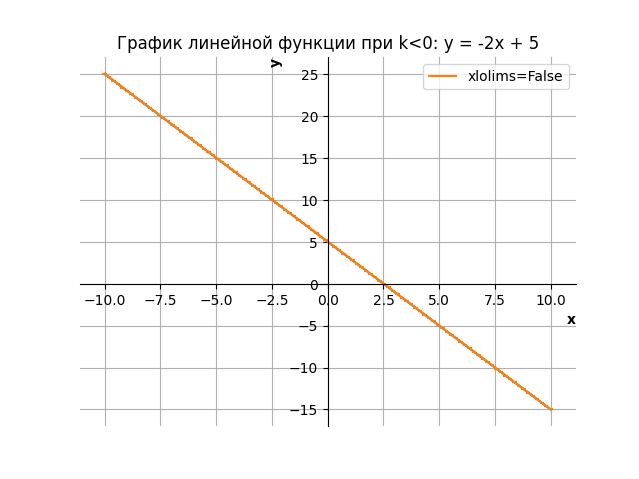
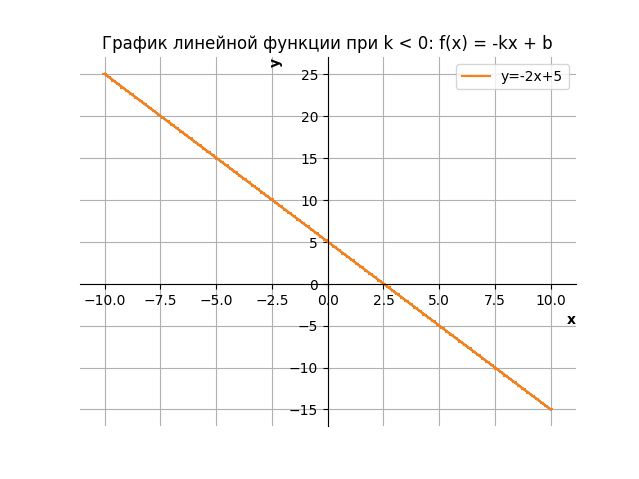
Fmt

Changed region(s): [[0.1487, 0.0585, 0.8623, 0.1169], [0.6541, 0.1461, 0.892, 0.1754]]

diff --git a/py/chart.py b/py/chart.py
@@ -15,7 +15,7 @@ y = k * x + b
 plt.plot(x, y)
  
 # Добавляем заголовок к графику
-plt.title("График линейной функции: y = b")
+plt.title("График линейной функции при k = 0: f(x) = b")
 
 # Включаем сетку для лучшей читаемости
 plt.grid(True)
@@ -31,7 +31,7 @@ ax.spines['top'].set_color('none')
 plt.xlabel("x", loc="right", fontweight="bold")
 plt.ylabel("y", loc="top", fontweight="bold")
 
-plt.errorbar(x, y, xerr=0.1, xlolims=False, label='xlolims=False')
+plt.errorbar(x, y, xerr=0.1, xlolims=False, label='y=-2x+5')
 plt.legend()
 # Показываем график
 plt.show()

diff --git a/src/theories_of_electrical_circuits/lessons/51.md b/src/theories_of_electrical_circuits/lessons/51.md
@@ -1,16 +1,35 @@
-# Урок 51. Линейное уравнение. Линейная функция. Уравнение первого порядка. Полином первого порядка.
+# Урок 51. Линейное уравнение. Линейная функция.
 
 В **теоретических основах электротехники (ТОЭ)** используются математические методы, включая **линейные уравнения**, **линейные функции**, **уравнения первого порядка** и **полиномы первого порядка**. Давай разберём, как они применяются в электротехнике.  
 
 ---
 
 ### 1. Линейное уравнение 
-Это уравнение вида:  
- 
-$a x + b = 0$
-  
-Где $ a $ и $ b $ — коэффициенты, а $ x $ — неизвестная величина.  
 
+$A\cdot x + B\cdot y = C$
+  
+- Первый вид уравнений:
+
+    Где $ A $ и $ B $ — постоянные коэффициенты и $A\ne 0$ и $B\ne 0$. 
+
+    $B\cdot y=-A\cdot x+C$
+
+    $y=-\frac{A}{B}\cdot x+\frac{C}{B}$ - это как раз уравнения вида $f(x)=kx + b$ при $k \ne 0$
+
+- Второй вид уравнений:
+    
+    Если $A=0$ и $B\ne 0$ это постоянная функция (горизонтальная линия)
+
+    $y=\frac{С}{B}$ - это как раз уравнения вида $f(x)=b$  
+
+
+- Третий вид уравнений:
+
+    При $A\ne 0$ и $B=0$ это не функция, так как на выходе произвольные данные
+
+    $x=\frac{С}{A}$ - вертикальная прямая, x постоянная величина, а у произвольный
+
+ 
 **В ТОЭ:**  
 - Такие уравнения описывают **линейные электрические цепи**, где параметры элементов (R, L, C) **не зависят** от напряжения или тока. (Резистор обладая 5 Ом сопротивлением при изменении тока или напряжение не изменяет свою характеристику, он по прежнему с 5 Ом, так же для индуктивности и емкости) 
 - Используются в методах **узловых потенциалов** и **методе контурных токов**.  
@@ -27,20 +46,17 @@ $f(x)=kx + b$
 Где:
 - $k$ — коэффициент наклона (передаточная функция)
 - $ b $ — сдвиг
-- $x, y$ — оси Декартовой плоскости
+- $x, y$ — оси Декартовой плоскости. Имеют значение тока или напряжения
 
 Строят функцию на графике для ряда точек, чтобы наглядно увидеть поведение функции. 
 Входные данные $x$ (независимая переменная), а выходные данные $y$ (зависимая переменная, так как зависит от входных данных) 
-
-
-
 
 Пример: 
 
 Пусть $k = 2$ (отвечает за угол наклона прямой и симметрию), $b = 5$ (отвечает за смещение по y оси), а $x$ изменяется от -10 до 10. <br>
 Тогда функция будет иметь вид: $y = 2x + 5$
 
-Запись вида $f(x)=kx + b$ удобна когда мы подставляем реальные значения:
+Запись вида $f(x)=kx + b$ это полином первого порядка, удобна когда мы подставляем реальные значения:
 - $f(1)=2\cdot 1 + 5=7\ т.е.\ y=7$
 - $f(8)=2\cdot 8 + 5=21\ т.е.\ y=21$
 
@@ -103,62 +119,5 @@ plt.show()
 
 ---
 
-### 3. Уравнение первого порядка 
-
-Линейное уравнение первого порядка (так как x в первой степени):
-
-$y = kx + b$
-
-
-Дифференциальное уравнение вида:  
- 
-$\frac{dy}{dx} + p(x)y = q(x)$
-  
-
-**В ТОЭ:**  
-- Описывает **зарядку и разрядку конденсаторов** ($ RC $-цепи).  
-- Описывает **переходные процессы в RL-цепях**:  
- 
-  $L \frac{di}{dt} + Ri = U$
- 
-
----
-
-### 4. Полином первого порядка 
-Это выражение вида:  
- 
-$A\cdot x + B\cdot y = C$
-  
-- Первый вид уравнений:
-
-    Где $ A $ и $ B $ — постоянные коэффициенты и $A\ne 0$ и $B\ne 0$. 
-
-    $B\cdot y=-A\cdot x+C$
-
-    $y=-\frac{A}{B}\cdot x+\frac{C}{B}$ - это как раз уравнения вида $f(x)=kx + b$ при $k \ne 0$
-
-- Второй вид уравнений:
-    
-    Если $A=0$ и $B\ne 0$ это постоянная функция (горизонтальная линия)
-
-    $y=\frac{С}{B}$ - это как раз уравнения вида $f(x)=b$  
-
-
-- Третий вид уравнений:
-
-    При $A\ne 0$ и $B=0$ это не функция, так как на выходе произвольные данные
-
-    $x=\frac{С}{A}$ - вертикальная прямая, x постоянная величина, а у произвольный
-
-**В ТОЭ:**  
-- Часто используется в **аппроксимации характеристик элементов**.  
-- Например, **линейная аппроксимация ВАХ диода** в малосигнальном анализе.  
-
----
-
 ### Вывод
 Все эти темы необходимы для анализа электрических цепей, особенно **линейных**. Если в цепи только **R, L, C и независимые источники**, то уравнения остаются **линейными**. Если же есть **нелинейные элементы** (например, диоды, транзисторы), то применяются **нелинейные уравнения**.  
-
-Если тебе нужны примеры или пояснения по какой-то из этих тем, спрашивай! 😊
-
-

diff --git a/src/theories_of_electrical_circuits/lessons/52.md b/src/theories_of_electrical_circuits/lessons/52.md
@@ -1,1 +1,58 @@
 # Урок 52. Принцип линейности в линейных электрических цепях.
+
+Если цепь состоит из линейных элементов, то выполняется принцип суперпозиции и линейная зависимость между токами и напряжениями в различных частях цепи.
+
+Если в линенйной электрической цепи изменяется ЭДС или споротивление в ветви то две любые величины (ток или напряжение) в двух других ветвях связаны между собой линейной зависимостью вида: $y=k\cdot x+b$
+
+где:
+- $x, y$ — токи или напряжения в двух различных ветвях
+- $k, b$ — коэффициенты, которые зависят от параметров цепи (сопротивлений, ЭДС и т.д.).
+
+**Почему это важно:**
+- Принцип линейности позволяет упростить анализ сложных цепей, разбивая их на более простые части.
+- Он также позволяет предсказывать, как изменения в одной части цепи повлияют на другие части, используя линейные уравнения.
+
+
+Если мы знаем зависимый ток или напряжение и его коэффициенты $k, b$ для какого-то режима работы цепи, то мы можем без замеров определить легко по формуле зависимый ток или напряжение и это легче чем заново решать систему уравнений. 
+ 
+### Найти зависимость, коэффициенты $k, b$
+
+1. Замерить два раза ток либо напряжение и подставить эти значения в формулу $y=k\cdot x+b$
+
+2. Решить систему уравнений
+
+**Пример**:
+
+Мы хотим знать, как между собой зависят токи $I_1$ и $I_2$ в режиме работы цепи при изменении $R_1$. Для этого, мы будем замерять их в двух режимах работы цепи. Режимы, в нашем случае, в виде изменение сопротивления резистора $R_1$
+
+При изменении типа режима т.е. если мы будем регулировать не через сопротивление резистора $R_1$, а через резистор $R_2$ либо через изменение напряжения на источнике ЭДС, то коэффициенты $k, b$ не будут подходить к нашему новому режиму работы и следует пересчитать коэффициенты, т.е. провести два замера для нового режима заново.
+ 
+![Принцип линейности в линейных электрических цепях.](../img/113.png "Принцип линейности в линейных электрических цепях.") 
+
+Замер для первого уравнения (режим 1)
+- При $R_1=4\  Om$, токи $I_1=0.507\ A$ и $I_2=0.145\ A$
+
+Замер для второго уравнения (режим 2)
+- При $R_1=7\  Om$, токи $I_1=0.598\ A$ и $I_2=0.171\ A$
+
+Теперь уравнение вида $y=k\cdot x+b$ перепишем для тока. Где $y=I_1$ первый зависимый ток, а $x=I_2$ второй зависимый ток.
+- $I_1=k\cdot I_2+b$ 
+- $I_2= \frac{I_1 - b}{k}$ (просто выразили ток $I_2$ из первого уравнения)
+
+Теперь запишем систему уравнения для первго и второго режима измерений:
+- $0.507=k\cdot 0.145+b$ 
+- $0.598=k\cdot 0.171+b$ 
+
+Решение системы уравнений, искомые коэффициенты $k$ и $b$:
+- $k \approx 3.5$ 
+- $b \approx -0.0005$
+
+Теперь, зная любой из этих двух токов, мы можем легко посчитать другой ток.
+Допустим мы знаем ток $I_2=0.07\ A$ (мы применили режим работы цепи 3, понизив сопротивление $R_1=1\ Om$) или по другому сформулируем, хотим знать какой будет ток $I_1$ при токе $I_2=0.07\ A$, подставляем значение $I_2$ в уравнение:
+- $I_1=3.5\cdot 0.07+(-0.0005) = 0.2445\ A$ 
+
+Либо, зная $I_1=0.24455\ A$ вычислим ток $I_2$
+- $I_2= \frac{I_1 - b}{k} = \frac{0.24455 - (-0.0005)}{3.5}= 0.07\ A$
+ 
+
+![Принцип линейности в линейных электрических цепях.](../img/114.png "Принцип линейности в линейных электрических цепях.") 

diff --git a/src/theories_of_electrical_circuits/lessons/54.md b/src/theories_of_electrical_circuits/lessons/54.md
@@ -1,1 +1,48 @@
 # Урок 54. Передача электроэнергии от источника к приемнику.
+
+При изначально заданном источнике ЭДС с его внутренним сопротивлением, какое должно быть сопротивление нагрузки что бы получить максимальную мощность $P$ от источника?
+
+Максимальная мощность будет при такой производной равной нулю.
+
+$\frac{dP_{нагрузки}}{dR_{нагрузки}} = 0$
+
+**Условие при котором получим максимальную мощность $P$**
+
+$R_{нагрузки} = r_{внутр}$ (называет - согласование нагрузки на внутреннее сопротивление)
+
+Чему равна максимальная мощность
+
+$P_{нагрузки\ max}=\frac{E²}{4\cdot R_{нагрузки}}$
+ 
+Коефициент полезного действия
+
+$\eta = \frac{P_{полезная}}{P_{затраченная}} = \frac{P_{нагрузки\ max}}{P_{подведенная\ ист.\ питания}}=0.5 \to 0.5\cdot 100 = 50\%\ КПД$ (т.е. остальные 50% будут теряться на внутреннем сопротивлении)
+
+где:
+- $P_{подведенная\ ист.\ питания} = E\cdot I$
+
+Большие потери мощности, при условии что мы максимально передаем мощность, оправданы в некоторых случаях, когда оперируют небольшими мощностями. Т.е. мы пренебрегаем КПД, зато передаем максимальную мощность дальше (например, для усилителя). 
+
+**Пример**:
+
+Измеряем ваттметром мощность при изменении сопротивления
+
+![Передача электроэнергии от источника к приемнику.](../img/115.png "Передача электроэнергии от источника к приемнику.") 
+
+Формула мощности:
+
+$P=I²\cdot R_{нагрузки}$
+
+Мощности первой цепи при $R_{нагрузки} = 8\ Om$:
+- $I_1=\frac{E_1}{R_1 + r_{внутр}} = \frac{9}{18} = 0.5\ A$
+- $P_1=I²_1\cdot R_{нагрузки} = 0.25\cdot 8 = 2\ W $
+
+Мощности второй цепи при $R_{нагрузки} = 12\ Om$:
+- $I_2=\frac{E_2}{R_2 + r_{внутр}} = \frac{9}{22} = 0.409\ A$
+- $P_2=I²_2\cdot R_{нагрузки} = 0.167281\cdot 12 = 2.007 \ W $
+
+Мощности третьей цепи при $R_{нагрузки} = 10\ Om$:
+- $I_3=\frac{E_3}{R_3 + r_{внутр}} = \frac{9}{20} = 0.45\ A$
+- $P_3=I²_3\cdot R_{нагрузки} = 0.2025\cdot 10 = 2.025 \ W $
+
+т.е. при $R_3=r_{внутр}$ максимальная мощность цепи $P= 2.025\ W $

diff --git a/src/glossary_of_terms/index.md b/src/glossary_of_terms/index.md
@@ -114,6 +114,19 @@
 Принцип суперпозиции гласит, что в линейной цепи (цепи, где все элементы линейны, например, резисторы, конденсаторы, катушки индуктивности) реакция на несколько источников энергии (источников тока или ЭДС) может быть найдена как сумма реакций на каждый источник в отдельности, при условии, что все остальные источники "выключены".
 В линейной цепи токи и напряжения являются линейными функциями от источников. Это означает, что если источник увеличивается в $k$ раз, то токи и напряжения также изменятся в $k$ раз.
 
+**Принцип однородности (масштабируемости)**  
+
+Если входное воздействие увеличить в $ k $ раз, то выходной отклик (ток или напряжение) также увеличится в $ k $ раз.  
+
+Математически:<br>
+Если напряжение $ U $ создаёт ток $ I $, то при увеличении напряжения в $ k $ раз, ток также увеличится в $ k $ раз:  
+ 
+$U' = k U \quad \Rightarrow \quad I' = k I$
+ 
+Пример:<br> 
+Если при напряжении $ U = 5V $ через резистор течёт ток $ I = 1A $, то при $ U = 10V $ ток станет $ I = 2A $.  
+
+
 ### ⚡ **Основные признаки линейной цепи:**
 
 1. **Прямолинейная зависимость**  

diff --git a/src/SUMMARY.md b/src/SUMMARY.md
@@ -45,9 +45,8 @@
     - [Урок 48. Часть 2. Расчетное и опытное определение входной и взаимной проводимостей.](./theories_of_electrical_circuits/lessons/48.md)
       
 
-  - [Урок 51. Линейное уравнение. Линейная функция. Уравнение первого порядка. Полином первого порядка.](./theories_of_electrical_circuits/lessons/51.md)
+  - [Урок 51. Линейное уравнение. Линейная функция.](./theories_of_electrical_circuits/lessons/51.md)
   - [Урок 52. Принцип линейности в линейных электрических цепях.](./theories_of_electrical_circuits/lessons/52.md)
-  - [Урок 53. Теорема вариаций.](./theories_of_electrical_circuits/lessons/53.md)
   - [Урок 54. Передача электроэнергии от источника к приемнику.](./theories_of_electrical_circuits/lessons/54.md)
   - [Урок 55. Передача электроэнергии по линии электропередачи (ЛЭП).](./theories_of_electrical_circuits/lessons/55.md)
   - [Урок 56. Баланс мощностей в электрических цепях.](./theories_of_electrical_circuits/lessons/56.md)

diff --git a/src/theories_of_electrical_circuits/lessons/53.md b/src/theories_of_electrical_circuits/lessons/53.md
@@ -1,1 +1,3 @@
 # Урок 53. Теорема вариаций.
+
+
